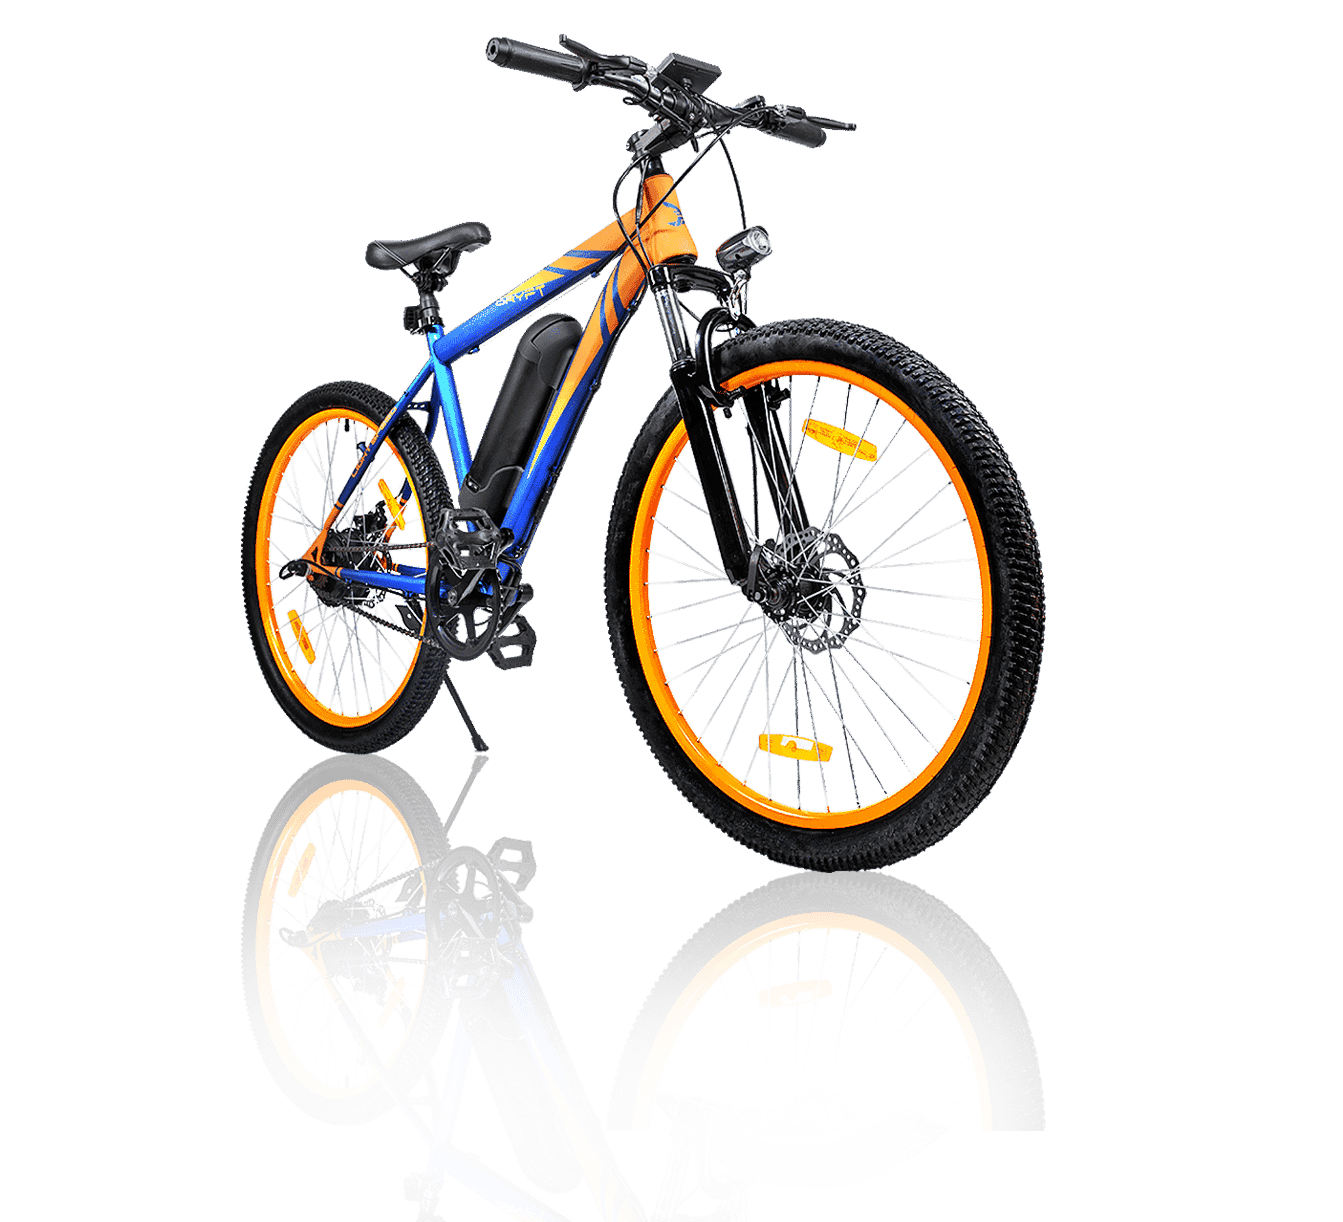
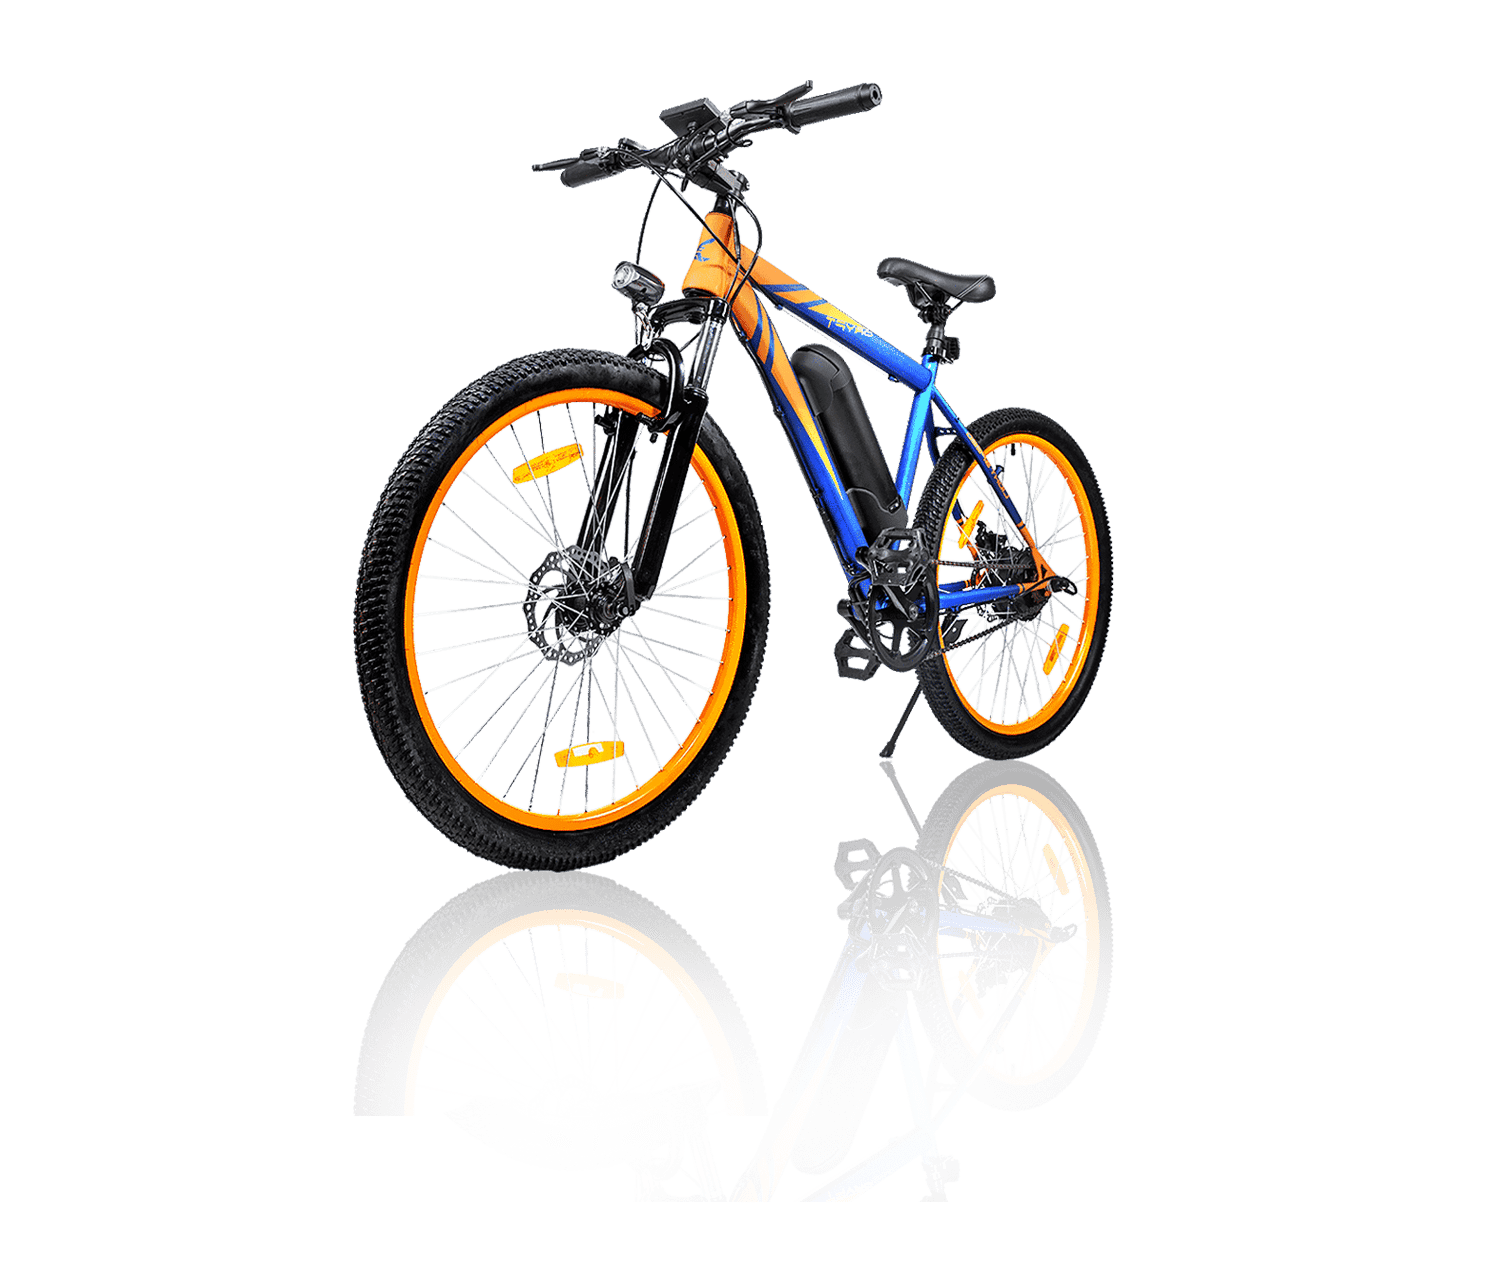
homepage car change

Changed region(s): [[0.1526, 0.0311, 0.7937, 0.8396]]

diff --git a/homePage/index.html b/homePage/index.html
@@ -66,7 +66,10 @@
     </div>
 
     <div class="headerCarouselContainer">
+      <div class="TEMPMARGIN">
 
+      </div>
+        <p class="mynext">NEXT(click)</p>
       <div class="headerCarousel">
 
         <div class="carrouselBox">
@@ -74,19 +77,19 @@
         </div>
 
         <div class="carrouselBox">
-          <img class="rOne" src="images/desktop/NEWCARBANER/12.png" alt="">
+          <img class="rOne" src="images/desktop/NEWCARBANER/12.png" style="top:-5vw;" alt="">
         </div>
 
         <div class="carrouselBox">
-          <img class="rOne" src="images/desktop/NEWCARBANER/11.png" alt="">
+          <img class="rOne" src="images/desktop/NEWCARBANER/11.png" style="top:-3vw;" alt="">
         </div>
 
         <div class="carrouselBox">
-          <img class="rOne" src="images/desktop/NEWCARBANER/10.png" alt="">
+          <img class="rOne" src="images/desktop/NEWCARBANER/10.png"  alt="">
         </div>
 
         <div class="carrouselBox">
-          <img class="rOne" src="images/desktop/NEWCARBANER/9.png" alt="">
+          <img class="rOne" src="images/desktop/NEWCARBANER/9.png" style="top:0.5vw;"  alt="">
         </div>
 
         <div class="carrouselBox">
@@ -94,31 +97,31 @@
         </div>
 
         <div class="carrouselBox">
-          <img class="rOne" src="images/desktop/NEWCARBANER/7.png" alt="">
+          <img class="rOne" src="images/desktop/NEWCARBANER/7.png" style="top:-0.6vw;" alt="">
         </div>
 
         <div class="carrouselBox">
-          <img class="rOne" src="images/desktop/NEWCARBANER/6.png" alt="">
+          <img class="rOne" src="images/desktop/NEWCARBANER/6.png" style="top:-6.6vw;"  alt="">
         </div>
 
         <div class="carrouselBox">
-          <img class="rOne" src="images/desktop/NEWCARBANER/5.png" alt="">
+          <img class="rOne" src="images/desktop/NEWCARBANER/5.png" style="top:-1.6vw;" alt="">
         </div>
 
         <div class="carrouselBox">
-          <img class="rOne" src="images/desktop/NEWCARBANER/4.png" alt="">
+          <img class="rOne" src="images/desktop/NEWCARBANER/4.png"  alt="">
         </div>
 
         <div class="carrouselBox">
-          <img class="rOne" src="images/desktop/NEWCARBANER/3.png" alt="">
+          <img class="rOne" src="images/desktop/NEWCARBANER/3.png" style="top:-1vw;"  alt="">
         </div>
 
         <div class="carrouselBox">
-          <img class="rOne" src="images/desktop/NEWCARBANER/2.png" alt="">
+          <img class="rOne" src="images/desktop/NEWCARBANER/2.png" style="top:-0.95vw;"  alt="">
         </div>
 
         <div class="carrouselBox">
-          <img class="rOne" src="images/desktop/NEWCARBANER/1.png" alt="">
+          <img class="rOne" src="images/desktop/NEWCARBANER/1.png" style="top:0.8vw;"  alt="">
         </div>
 
         <div class="carrouselBox">

diff --git a/homePage/js/index.js b/homePage/js/index.js
@@ -74,22 +74,22 @@ function moveCarousel() {
 var carMovement;
 var carTimeOut;
 
-function startCar() {
-
-  carTimeOut =
-  setTimeout(function () {
-    moveCarousel();
-    // headerTextBoxAnim();
-
-    carMovement = setInterval(function () {
-      moveCarousel()
-      // headerTextBoxAnim()
-    }, 4000);
-
-  }, 2000);
-}
-
-startCar();
+// function startCar() {
+//
+//   carTimeOut =
+//   setTimeout(function () {
+//     moveCarousel();
+//     // headerTextBoxAnim();
+//
+//     carMovement = setInterval(function () {
+//       moveCarousel()
+//       // headerTextBoxAnim()
+//     }, 4000);
+//
+//   }, 2000);
+// }
+//
+// startCar();
 
 
 // header text anim
@@ -154,3 +154,10 @@ for (var i = 0; i < toDomainButtonBox.length; i++) {
     location.href = window.location.href.substring(0, window.location.href.length - 19) + 'carAddPopup/carAddPopup.html';
   })
 }
+
+
+// more temps
+var mynext = document.getElementsByClassName('mynext');
+mynext[0].addEventListener('click',()=>{
+  moveCarousel()
+})

diff --git a/homePage/css/index.css b/homePage/css/index.css
@@ -355,6 +355,7 @@ nav {
   height: 62.2760vw;
   left: -3vw;
   top: -2vw;
+  border:2px solid red;
 }
 
 /*
@@ -809,4 +810,26 @@ nav {
 .carousel-control-prev-icon, .carousel-control-next-icon{
   /* font-family: 'OpenSans-Thin'; */
   font-weight: 100;
+}
+
+
+
+
+/* temp */
+.TEMPMARGIN {
+    position: absolute;
+    top: 40vw;
+    width: 100%;
+    border: 3px solid red;
+    z-index: 2323;
+}
+
+.mynext{
+  font-size: 3vw;
+  position: absolute;
+  z-index: 23223;
+  top: 10vw;
+  color: red;
+  cursor: pointer;
+  left: 3vw;
 }
